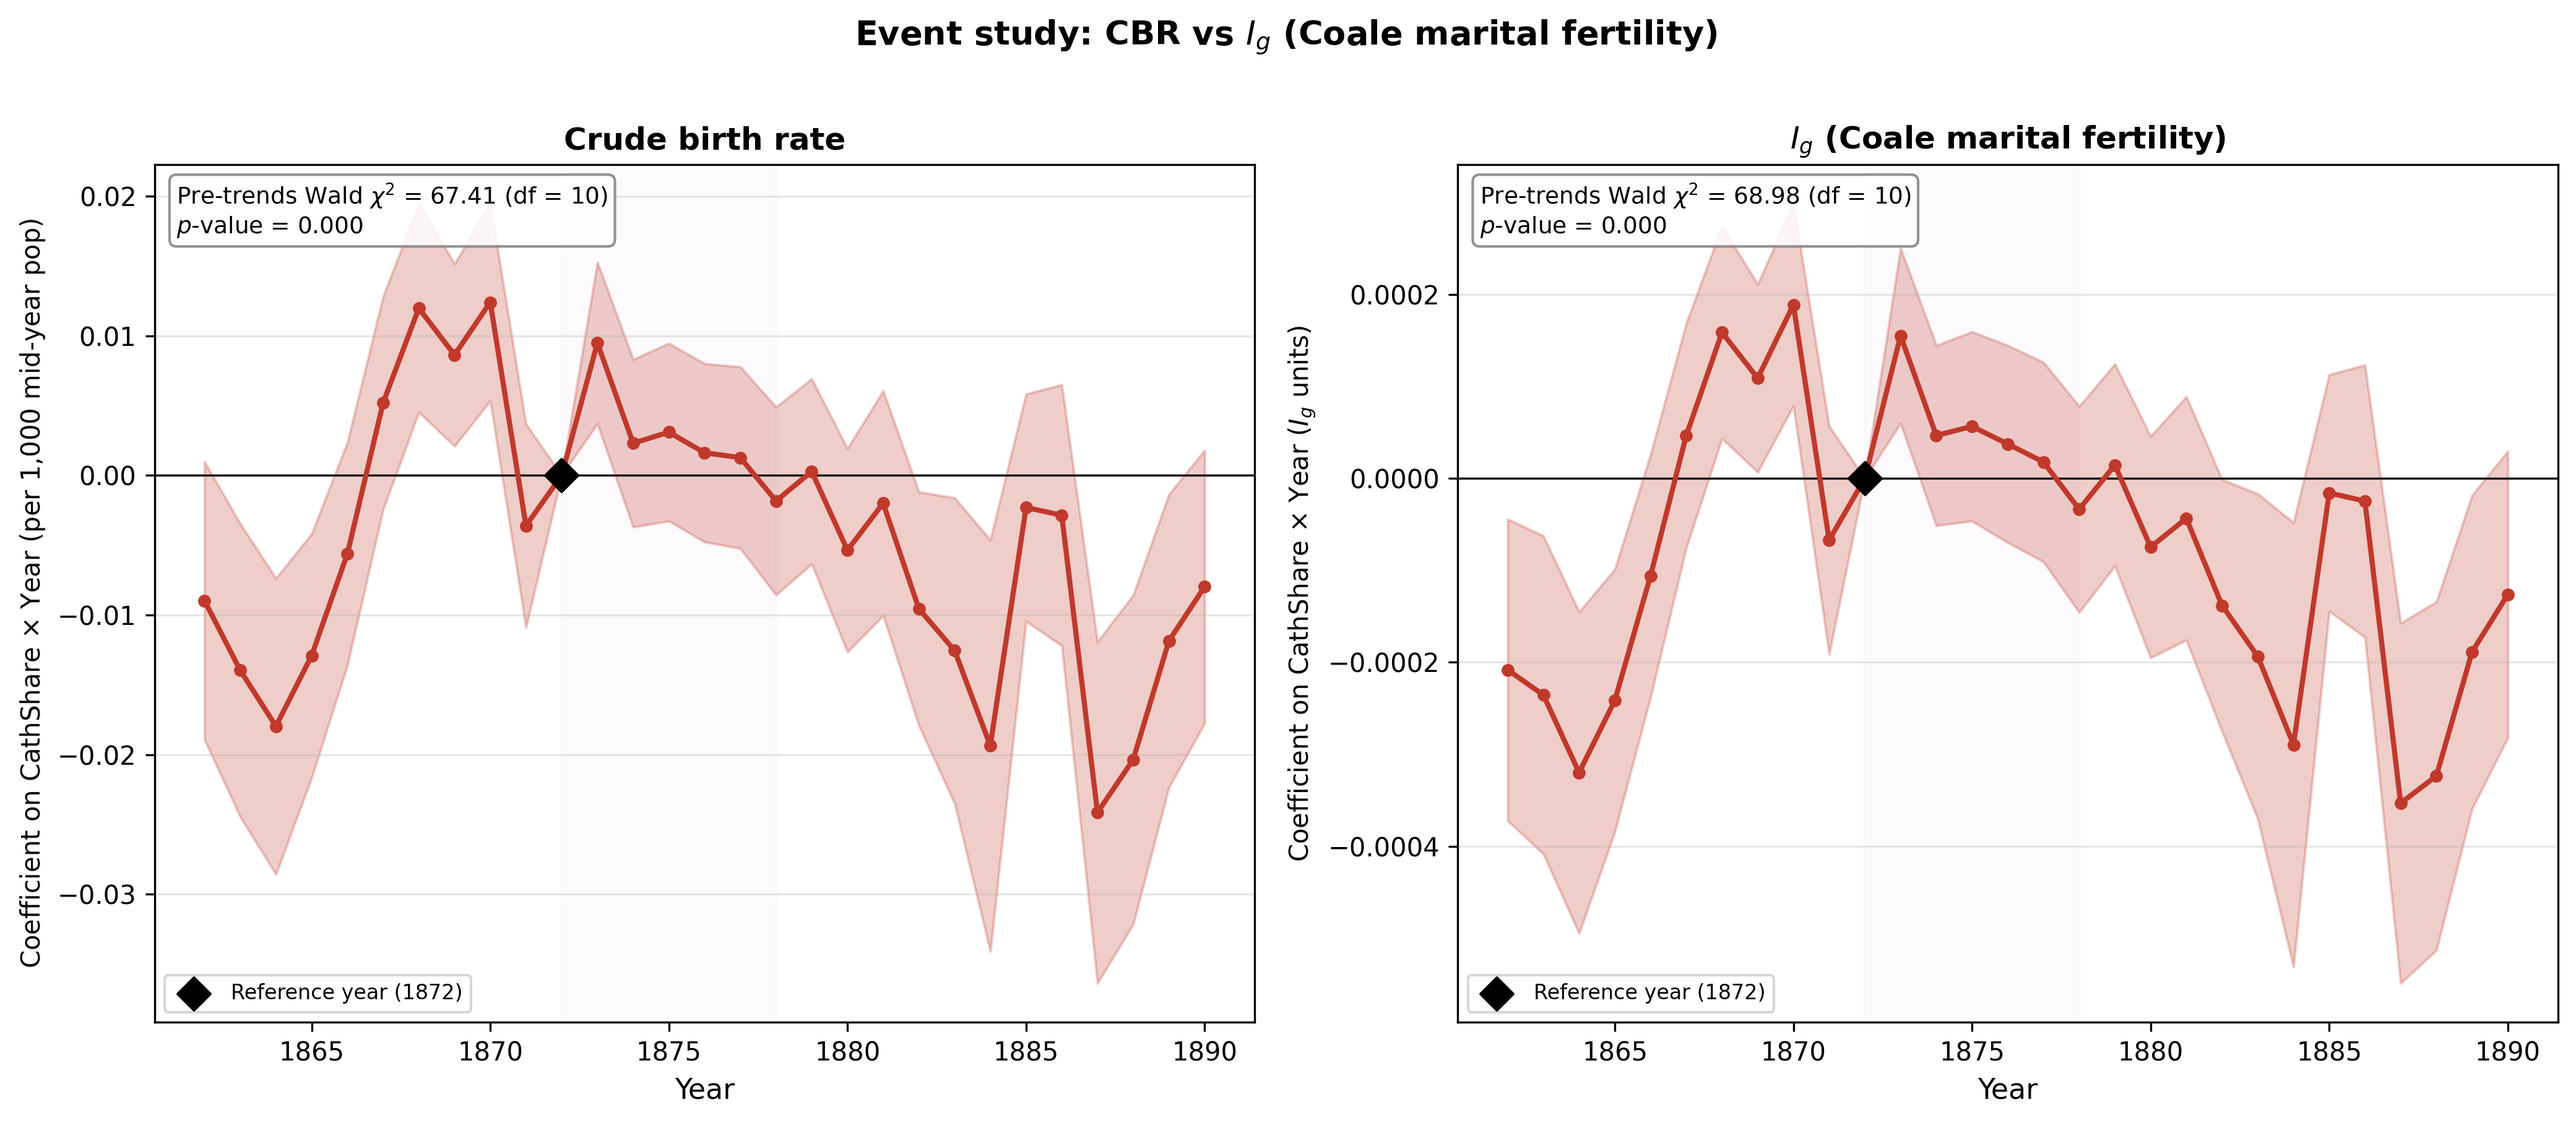
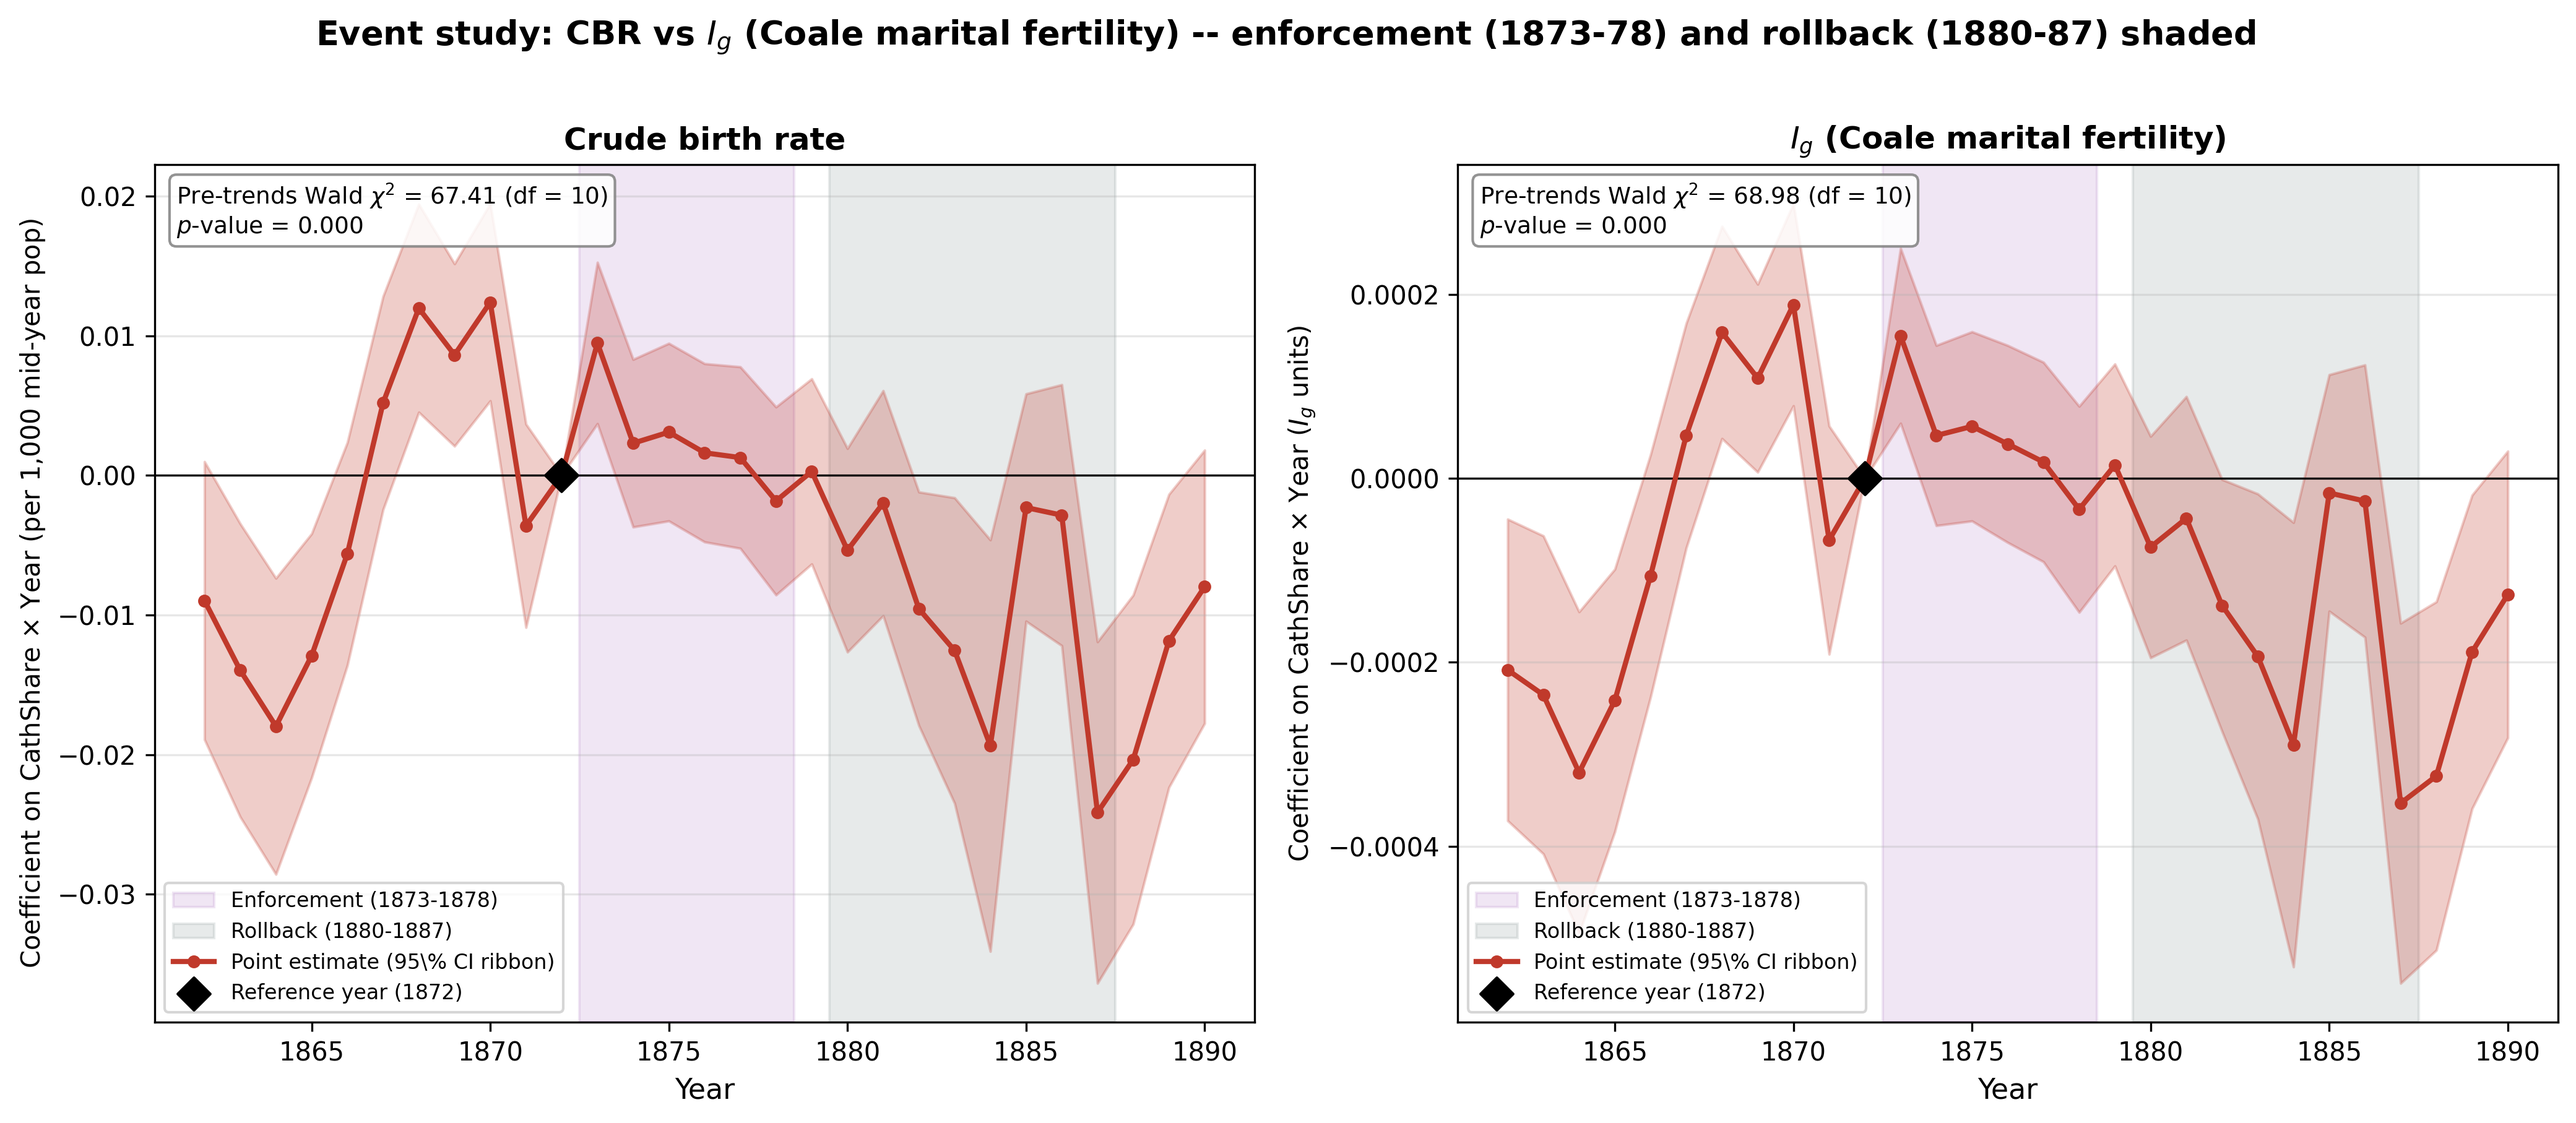
fig5 event study: distinguish enforcement (1873-78) vs rollback (1880-87)
Previous version shaded a single Kulturkampf window (1872-78). New
version distinguishes the two policy phases with different colours
and a legend entry for each:

- Light purple: enforcement (1873-78) -- May Laws in force, civil
  marriage replaces parish marriage (1875), parochial school
  inspection nationalised.
- Light grey: rollback (1880-87) -- progressive repeal under Leo
  XIII's diplomatic settlement; Polish-Catholic restrictions persist
  (Polenausweisungen 1885-86).
- Unshaded: pre-period (1862-72), transition year (1879), and post-
  rollback (1888+).

Visualisation choice matters because the headline finding is that
event-study coefficients accumulate *across* enforcement and into
the rollback period -- effects don't merely respond to the May Laws
and revert; they compound. The two-block shading makes that pattern
legible at a glance.

Function signature gains optional enforcement_years and
rollback_years tuple parameters with sensible defaults.

diff --git a/exam_project2/src/visualization/plots.py b/exam_project2/src/visualization/plots.py
@@ -394,6 +394,8 @@ def plot_event_study_cbr_ig(
     pretrends_cbr: dict | None = None,
     pretrends_ig: dict | None = None,
     ref_year: int = 1872,
+    enforcement_years: tuple[int, int] = (1873, 1878),
+    rollback_years: tuple[int, int] = (1880, 1887),
     savepath: str | None = None,
 ):
     """
@@ -406,12 +408,22 @@ def plot_event_study_cbr_ig(
     pre-trends conclusion hold both for the broad CBR and for the
     nuptiality-netted marital-fertility index.
 
-    Each panel shades the Kulturkampf enforcement window (1872--1878),
-    plots the 95% CI ribbon, the point estimates, and the omitted
-    reference year. If pre-trends Wald dictionaries (output of
-    ``regressions.pretrends_wald_test``) are passed, the $\\chi^2$
-    statistic, df, and $p$-value are annotated in the upper-left corner of
-    each panel.
+    Each panel shades the two policy phases distinctly:
+
+    - **Enforcement (1873--1878)** -- the May Laws are in force, Catholic
+      clergy face expulsions and incarceration, civil marriage replaces
+      Catholic-parish marriage (1875), parochial-school inspection is
+      transferred to the state.
+    - **Rollback (1880--1887)** -- progressive repeal beginning under
+      Leo XIII's diplomatic settlement; legislation still on the books
+      but weakened; Polish-Catholic restrictions persist longer than
+      German-Catholic ones (Polenausweisungen, 1885--86).
+    - Years 1879 and 1888+ are the transition / post-rollback periods.
+
+    The two shaded blocks let the reader see at a glance whether the
+    event-study coefficients move during legislative enforcement, during
+    rollback, or both -- the standard demographic-transition question
+    for an institutional shock that was *gradually* reversed.
 
     Parameters
     ----------
@@ -422,6 +434,8 @@ def plot_event_study_cbr_ig(
         Output of ``pretrends_wald_test(...)``. If provided, annotated.
     ref_year : int
         Reference (omitted) event-study year.
+    enforcement_years, rollback_years : (int, int)
+        Inclusive year ranges for the two shaded policy windows.
     savepath : str, optional
         Where to write the PNG.
     """
@@ -435,8 +449,25 @@ def plot_event_study_cbr_ig(
          "$I_g$ (Coale marital fertility)",
          "Coefficient on CathShare $\\times$ Year ($I_g$ units)"),
     ]
+    enf_color = "#9B59B6"   # light purple for enforcement
+    roll_color = "#7F8C8D"  # neutral grey for rollback
+
     for ax, coefs, pre, title, ylabel in panels:
-        ax.axvspan(1872, 1878, alpha=0.12, color=COLORS["kulturkampf"])
+        # Enforcement shading (light purple, 1873-1878). Use axvspan from
+        # enf_start - 0.5 to enf_end + 0.5 to align block edges with
+        # year-tick centres.
+        ax.axvspan(
+            enforcement_years[0] - 0.5, enforcement_years[1] + 0.5,
+            alpha=0.15, color=enf_color,
+            label=f"Enforcement ({enforcement_years[0]}-{enforcement_years[1]})",
+        )
+        # Rollback shading (neutral grey, 1880-1887).
+        ax.axvspan(
+            rollback_years[0] - 0.5, rollback_years[1] + 0.5,
+            alpha=0.18, color=roll_color,
+            label=f"Rollback ({rollback_years[0]}-{rollback_years[1]})",
+        )
+
         ax.axhline(0, color="black", linewidth=0.8, linestyle="-")
         ax.fill_between(
             coefs["Year"], coefs["ci_lo"], coefs["ci_hi"],
@@ -445,11 +476,13 @@ def plot_event_study_cbr_ig(
         ax.plot(
             coefs["Year"], coefs["beta"],
             color=COLORS["catholic"], linewidth=2, marker="o", markersize=4,
+            label="Point estimate (95\\% CI ribbon)",
         )
         ax.scatter(
             [ref_year], [0], color="black", s=80, zorder=5,
             marker="D", label=f"Reference year ({ref_year})",
         )
+
         if pre is not None:
             txt = (
                 f"Pre-trends Wald $\\chi^2$ = {pre['wald_chi2']:.2f} "
@@ -469,7 +502,8 @@ def plot_event_study_cbr_ig(
         ax.legend(loc="lower left", frameon=True, fontsize=8)
 
     fig.suptitle(
-        "Event study: CBR vs $I_g$ (Coale marital fertility)",
+        "Event study: CBR vs $I_g$ (Coale marital fertility) "
+        "-- enforcement (1873-78) and rollback (1880-87) shaded",
         fontsize=13, fontweight="bold", y=1.00,
     )
     plt.tight_layout()
